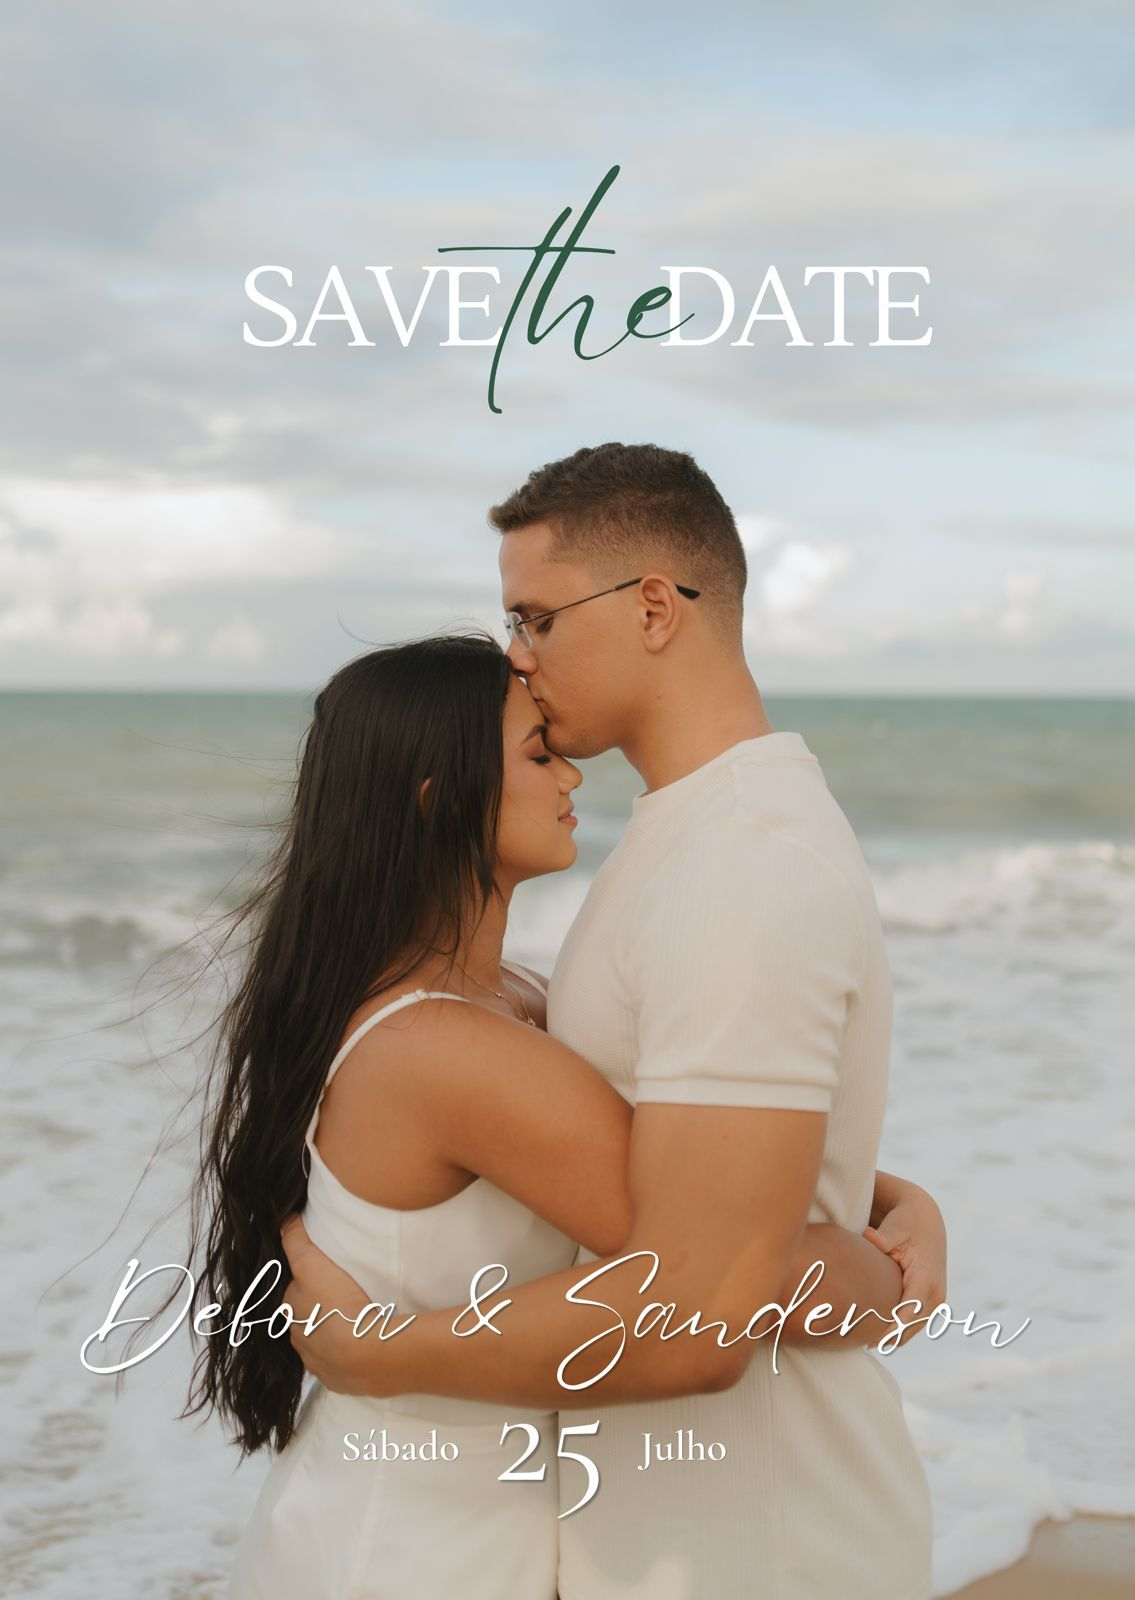
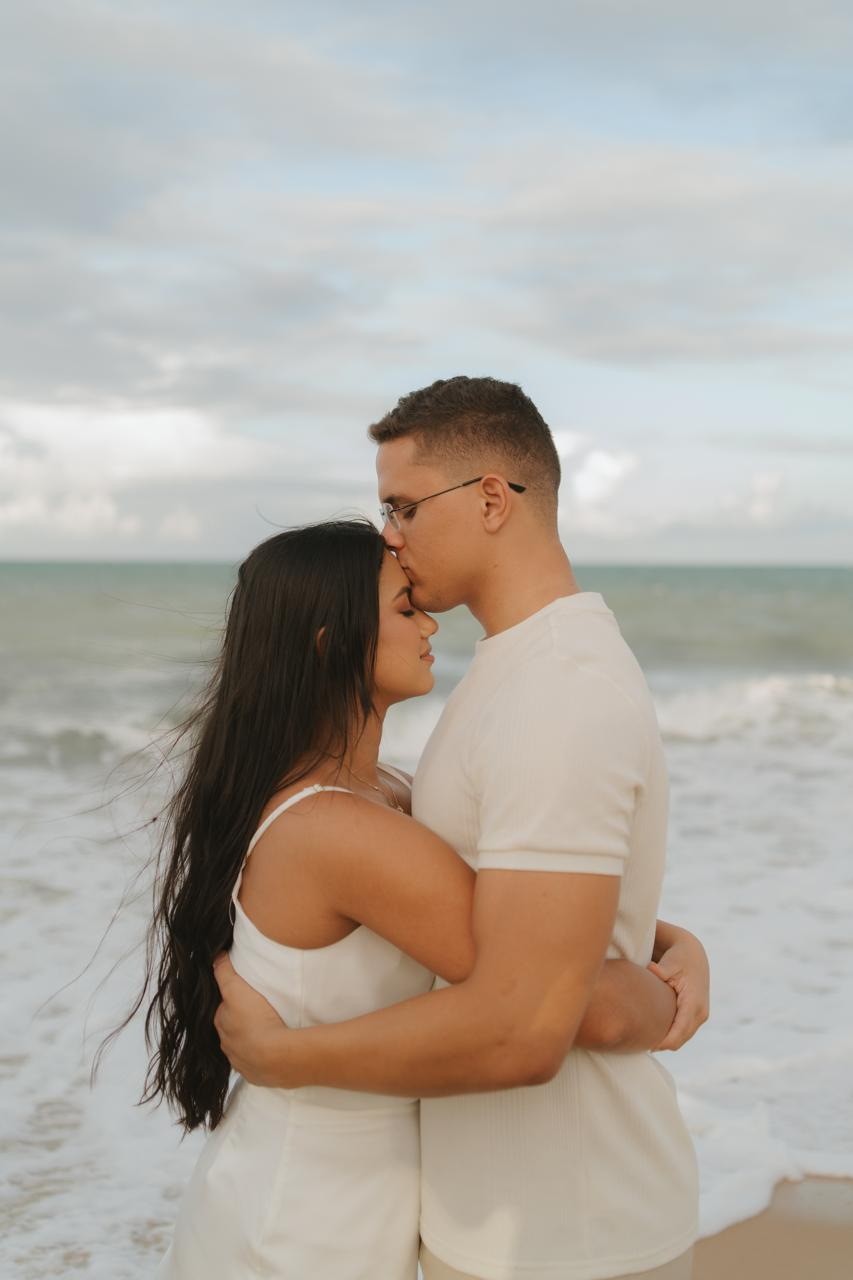
feat: add gift card component and redemption form for wedding gift registry

diff --git a/src/components/PresenteCard.tsx b/src/components/PresenteCard.tsx
@@ -23,6 +23,7 @@ interface PresenteCardProps {
 export default function PresenteCard({ presente, resgate }: PresenteCardProps) {
   const [isModalOpen, setIsModalOpen] = useState(false)
   const [isVisible, setIsVisible] = useState(false)
+  const [successName, setSuccessName] = useState<string | null>(null)
   const cardRef = useRef<HTMLDivElement>(null)
 
   useEffect(() => {
@@ -148,21 +149,28 @@ export default function PresenteCard({ presente, resgate }: PresenteCardProps) {
                 }}
               />
 
-              {/* Nome do convidado escrito na parte de baixo do polaroid */}
               <div style={{
                 position: 'absolute',
-                bottom: '10%',
-                left: 0,
-                width: '100%',
+                bottom: '2%', // Desce mais um pouquinho para a ponta do polaroid
+                left: '5%',
+                width: '90%',
+                height: '18%', // Ocupa rigorosamente apenas o espaço branco do final
+                display: 'flex',
+                alignItems: 'center', // Se ficar grande, cresce para baixo e para cima, mas como a altura é 18%, e a foto acaba em 78%, não deve passar.
+                justifyContent: 'center',
                 textAlign: 'center',
                 zIndex: 3,
-                padding: '0 10px'
+                overflow: 'hidden' // Corta o que passar
               }}>
                 <span style={{ 
                   fontFamily: 'var(--font-cursive)', 
-                  fontSize: 'clamp(1.2rem, 5vw, 1.8rem)', 
+                  fontSize: 'clamp(0.8rem, 3.5vw, 1.2rem)', // Fonte reduzida para caber nomes como "Arthur e Gabi" em 2 linhas sem estourar
                   color: '#2C363F',
-                  lineHeight: 1
+                  lineHeight: 0.9, // Reduz o espaço entre as linhas
+                  display: '-webkit-box',
+                  WebkitLineClamp: 2, // Permite 2 linhas
+                  WebkitBoxOrient: 'vertical',
+                  wordBreak: 'break-word'
                 }}>
                   {resgate.nome_convidado}
                 </span>
@@ -194,7 +202,60 @@ export default function PresenteCard({ presente, resgate }: PresenteCardProps) {
           presenteId={presente.id}
           presenteNome={presente.nome}
           onClose={() => setIsModalOpen(false)}
+          onSuccess={(nome) => setSuccessName(nome)}
         />
+      )}
+
+      {successName && (
+        <div className="modal-overlay" onClick={() => setSuccessName(null)} style={{ zIndex: 1000 }}>
+          <div className="modal-content" onClick={(e) => e.stopPropagation()} style={{ 
+            padding: '3rem 2rem', 
+            backgroundColor: 'var(--color-card-bg)', 
+            border: '2px solid var(--color-primary-light)',
+            textAlign: 'center',
+            maxWidth: '500px'
+          }}>
+            <button className="modal-close" onClick={() => setSuccessName(null)}>&times;</button>
+            
+            <h2 style={{ 
+              fontFamily: 'var(--font-cursive)', 
+              fontSize: '3rem', 
+              color: 'var(--color-primary-light)', 
+              marginBottom: '1.5rem',
+              lineHeight: 1
+            }}>
+              Muito Obrigado!
+            </h2>
+            
+            <p style={{ 
+              fontSize: '1.25rem', 
+              color: 'var(--color-text)', 
+              lineHeight: 1.6,
+              marginBottom: '1rem'
+            }}>
+              <strong style={{ color: 'var(--color-primary-dark)' }}>{successName}</strong>,<br/>
+              agradecemos de coração por fazer parte deste momento tão especial em nossas vidas e por este presente incrível!
+            </p>
+            
+            <p style={{ 
+              marginTop: '1.5rem', 
+              fontSize: '1.1rem', 
+              color: 'var(--color-text-light)',
+              fontFamily: 'var(--font-cursive)'
+            }}>
+              Com carinho, <br/>
+              <span style={{ fontSize: '1.5rem' }}>Sanderson & Débora</span>
+            </p>
+            
+            <button 
+              className="btn btn-primary" 
+              style={{ marginTop: '2.5rem', width: '100%', padding: '1rem' }}
+              onClick={() => setSuccessName(null)}
+            >
+              Fechar
+            </button>
+          </div>
+        </div>
       )}
     </>
   )

diff --git a/src/app/page.tsx b/src/app/page.tsx
@@ -29,21 +29,36 @@ export default async function Home() {
     <main>
       {/* Hero Section */}
       <section style={{
-        backgroundImage: 'url("/hero.png")', // Assumindo que você vai salvar a imagem na pasta public como hero.png
+        backgroundImage: 'url("/hero.png")',
         backgroundSize: 'cover',
         backgroundPosition: 'center',
         backgroundRepeat: 'no-repeat',
         minHeight: '100vh',
         display: 'flex',
         flexDirection: 'column',
-        justifyContent: 'flex-end', // Joga o contador e o botão para baixo, para não tampar o rosto de vocês
+        justifyContent: 'space-between', // Distribui o texto no topo e na base
         alignItems: 'center',
         textAlign: 'center',
-        padding: '2rem',
+        padding: '10vh 2rem 5rem 2rem', // Espaçamento superior e inferior
         position: 'relative'
       }}>
-        <div className="container animate-fade-in" style={{ zIndex: 10, paddingBottom: '3rem', height: '100%', display: 'flex', flexDirection: 'column', justifyContent: 'center' }}>
-          {/* A imagem hero.png já contém todo o texto e design necessário */}
+        
+        {/* Topo: Save the Date */}
+        <div className="animate-fade-in" style={{ width: '100%', maxWidth: '700px', zIndex: 10 }}>
+          <img 
+            src="/Save-the-date.png" 
+            alt="Save the Date" 
+            style={{ width: '100%', height: 'auto', objectFit: 'contain' }}
+          />
+        </div>
+
+        {/* Base: Nomes e Data */}
+        <div className="animate-fade-in" style={{ width: '100%', maxWidth: '600px', zIndex: 10, marginBottom: '2rem' }}>
+          <img 
+            src="/Debora&Sanderson+data.png" 
+            alt="Débora e Sanderson - 25 de Julho" 
+            style={{ width: '100%', height: 'auto', objectFit: 'contain', filter: 'drop-shadow(0px 2px 4px rgba(0,0,0,0.3))' }}
+          />
         </div>
 
         {/* Scroll Indicator - Seta para baixo */}
@@ -75,8 +90,52 @@ export default async function Home() {
         </a>
       </section>
 
+      {/* Introdução aos Convidados */}
+      <section style={{ padding: 'var(--spacing-xxl) 0 0', backgroundColor: 'var(--color-bg)' }}>
+        <div className="container" style={{ maxWidth: '800px', margin: '0 auto', textAlign: 'center', padding: '0 1rem' }}>
+          <h2 style={{ 
+            fontFamily: 'var(--font-cursive)', 
+            fontSize: 'clamp(2.5rem, 5vw, 3.5rem)', 
+            color: 'var(--color-primary-light)', 
+            marginBottom: '1.5rem',
+            lineHeight: 1.2
+          }}>
+            Estamos Animados!
+          </h2>
+          
+          <p style={{ 
+            fontSize: '1.25rem', 
+            color: 'var(--color-text)', 
+            lineHeight: 1.8, 
+            marginBottom: '1.5rem' 
+          }}>
+            A contagem regressiva começou e não vemos a hora de encontrar cada um de vocês para celebrarmos juntos esse momento tão especial das nossas vidas. O nosso maior presente é, sem dúvidas, a sua presença!
+          </p>
+          
+          <p style={{ 
+            fontSize: '1.1rem', 
+            color: 'var(--color-text-light)', 
+            lineHeight: 1.7, 
+            marginBottom: '3rem' 
+          }}>
+            Muitos têm nos perguntado sobre presentes, então preparamos este mural. 
+            <br/><br/>
+            <strong>Fique à vontade, presentear não é uma regra ou obrigação.</strong> 
+            <br/>
+            Caso deseje nos mimar com alguma lembrança da lista, ficaremos imensamente felizes e gratos. Se não, seu abraço no grande dia já será inesquecível!
+          </p>
+          
+          <div style={{ 
+            width: '60px', 
+            height: '2px', 
+            backgroundColor: 'var(--color-primary)', 
+            margin: '0 auto' 
+          }} />
+        </div>
+      </section>
+
       {/* Grid de Presentes */}
-      <section id="lista-presentes" style={{ padding: 'var(--spacing-xxl) 0', backgroundColor: 'var(--color-bg)' }}>
+      <section id="lista-presentes" style={{ padding: 'var(--spacing-xl) 0 var(--spacing-xxl)', backgroundColor: 'var(--color-bg)' }}>
         <div className="container">
           <div className="gifts-grid">
             {presentes && presentes.map((presente) => {

diff --git a/src/components/ResgateForm.tsx b/src/components/ResgateForm.tsx
@@ -1,20 +1,22 @@
 'use client'
 
-import { useState, useRef } from 'react'
+import { useState, useRef, useEffect } from 'react'
 import { resgatarPresente } from '@/actions/resgatarPresente'
 
 interface ResgateFormProps {
   presenteId: string
   presenteNome: string
   onClose: () => void
+  onSuccess?: (nome: string) => void
 }
 
-export default function ResgateForm({ presenteId, presenteNome, onClose }: ResgateFormProps) {
+export default function ResgateForm({ presenteId, presenteNome, onClose, onSuccess }: ResgateFormProps) {
   const [loading, setLoading] = useState(false)
   const [error, setError] = useState('')
   const [fotoName, setFotoName] = useState('')
   const [compName, setCompName] = useState('')
   const formRef = useRef<HTMLFormElement>(null)
+  const errorRef = useRef<HTMLDivElement>(null)
 
   const compressImage = async (file: File, maxWidth = 1200): Promise<File> => {
     if (!file.type.startsWith('image/')) return file
@@ -57,6 +59,12 @@ export default function ResgateForm({ presenteId, presenteNome, onClose }: Resga
     })
   }
 
+  useEffect(() => {
+    if (error && errorRef.current) {
+      errorRef.current.scrollIntoView({ behavior: 'smooth', block: 'nearest' })
+    }
+  }, [error])
+
   const handleSubmit = async (e: React.FormEvent<HTMLFormElement>) => {
     e.preventDefault()
     setLoading(true)
@@ -83,6 +91,18 @@ export default function ResgateForm({ presenteId, presenteNome, onClose }: Resga
         return
       }
 
+      if (!fotoFile.type.startsWith('image/')) {
+        setError('O arquivo da foto não é suportado. Por favor, envie uma imagem (JPG, PNG, etc).')
+        setLoading(false)
+        return
+      }
+
+      if (!compFile.type.startsWith('image/') && compFile.type !== 'application/pdf') {
+        setError('O formato do comprovante não é suportado. Envie uma imagem ou um arquivo PDF.')
+        setLoading(false)
+        return
+      }
+
       // Comprime a foto do convidado (muito importante para fotos tiradas direto da câmera do celular)
       fotoFile = await compressImage(fotoFile)
       formData.append('foto', fotoFile)
@@ -99,6 +119,10 @@ export default function ResgateForm({ presenteId, presenteNome, onClose }: Resga
         setError(result.error)
       } else {
         // Sucesso: apenas fecha o modal e deixa o Next.js revalidar a página
+        if (onSuccess) {
+          const nomeInput = formElement.elements.namedItem('nome') as HTMLInputElement
+          onSuccess(nomeInput.value)
+        }
         onClose()
       }
     } catch (err) {
@@ -120,8 +144,23 @@ export default function ResgateForm({ presenteId, presenteNome, onClose }: Resga
         </div>
 
         {error && (
-          <div style={{ backgroundColor: 'var(--color-error)', color: 'white', padding: '1rem', borderRadius: '8px', marginBottom: '1rem' }}>
-            {error}
+          <div ref={errorRef} style={{ 
+            backgroundColor: '#fee2e2', 
+            color: '#b91c1c', 
+            padding: '1rem', 
+            borderRadius: '8px', 
+            marginBottom: '1.5rem',
+            border: '1px solid #f87171',
+            display: 'flex',
+            alignItems: 'flex-start',
+            gap: '0.75rem',
+            fontSize: '0.95rem'
+          }}>
+            <span style={{ fontSize: '1.25rem', lineHeight: 1 }}>⚠</span>
+            <div>
+              <strong style={{ display: 'block', marginBottom: '0.25rem' }}>Atenção:</strong>
+              {error}
+            </div>
           </div>
         )}
 
